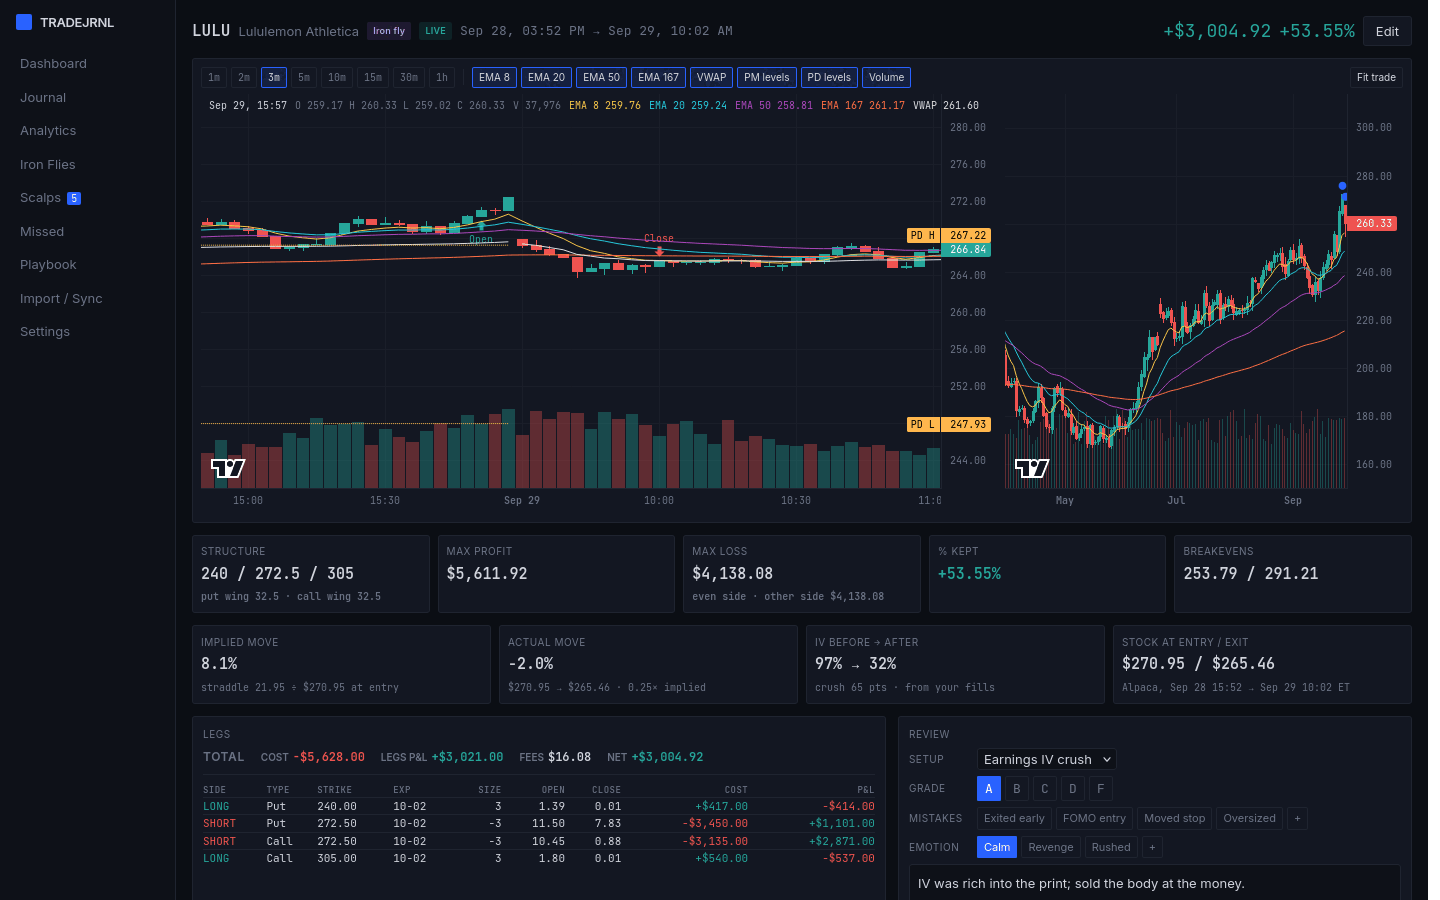
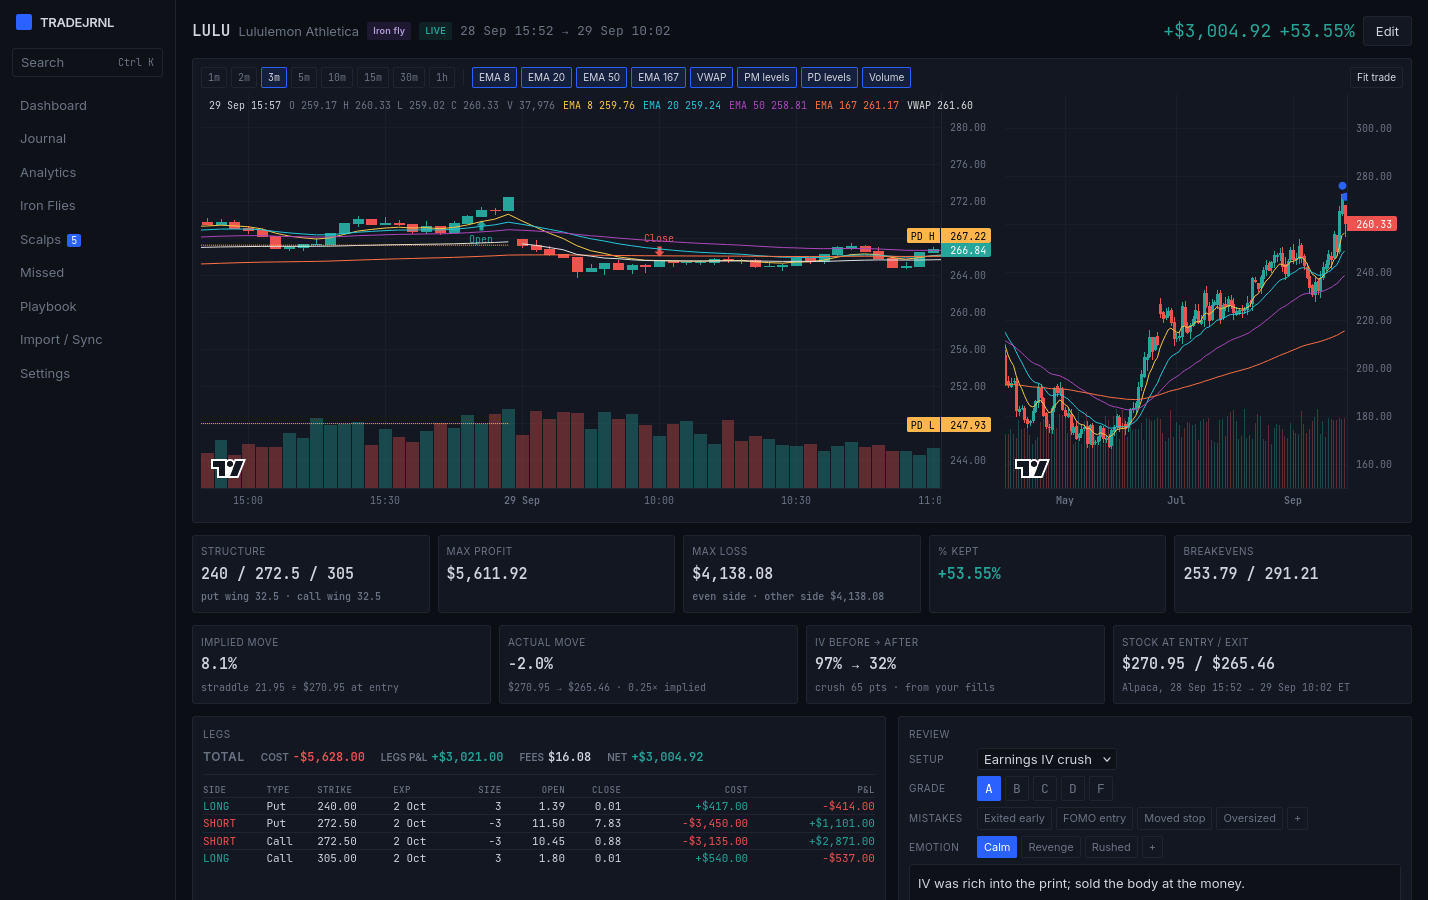
docs: screenshots with European dates, and a tidier Search button
The README's seven images are retaken from pnpm demo --end 2026-09-30,
so they show day-first dates and the nav's Search button. The scalp
shown keeps its levels on the premium, as its caption says. The
button's separator dot is now for screen readers only, so it reads
"Search … Ctrl K" on screen and "Search · Ctrl K" aloud.

diff --git a/apps/web/src/components/Shell.tsx b/apps/web/src/components/Shell.tsx
@@ -40,7 +40,9 @@ export function Shell({
             onClick={onSearch}
             className="mb-3 flex w-full items-center justify-between rounded-sm border border-line px-2 py-1 text-muted hover:text-fg"
           >
-            <span>Search · </span>
+            <span>
+              Search<span className="sr-only"> · </span>
+            </span>
             <kbd className="num text-[10px]">Ctrl K</kbd>
           </button>
         )}
